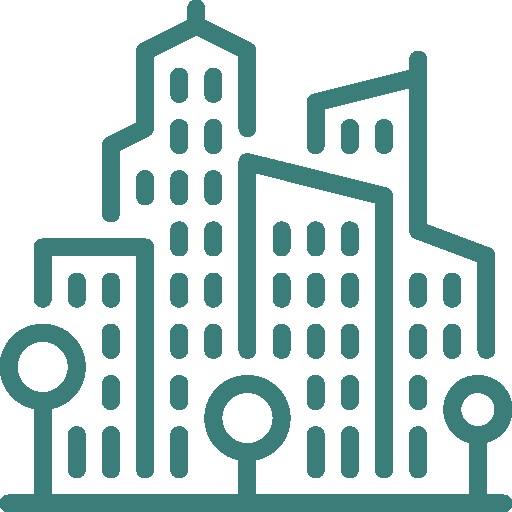
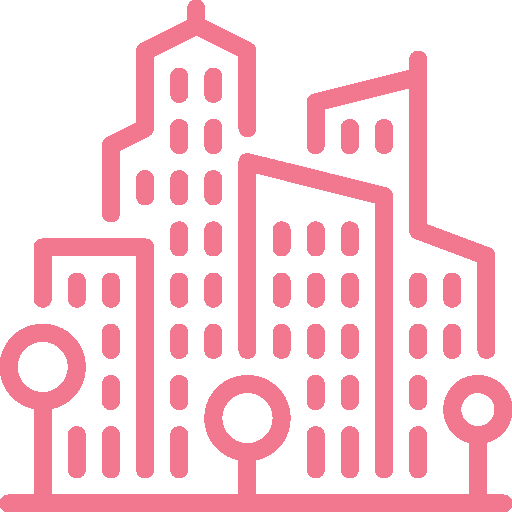
Change about color

diff --git a/css/bio.css b/css/bio.css
@@ -1,3 +1,6 @@
+.header-color {
+	background-color: #f2788f;
+}
 article {
 	z-index: 1;
 	background-color: white;
@@ -10,14 +13,17 @@ article {
 }
 .title {
 	font-size: 100px;
-	color: black;
+	color: #f2788f;
 }
 .vertical-rule {
 	width: 75vw;
 	max-width: 400px;
 	height: 5px;
-	background-color: #3B7D79;
+	background-color: #f2788f;
 	margin: 75px auto;
+}
+.sub-heading {
+	color: #f2788f;
 }
 .bio {
 	margin: 0 auto;
@@ -33,13 +39,12 @@ article {
 .svgs img {
 	width: 100px;
 	margin: 15px 50px;
-	color: #3B7D79;
 }
 footer {
 	color: white;
 	width: 100%;
 	height: 175px;
-	background-color: #73cac4;
+	background-color: #f2788f;
 	position: fixed;
 	bottom: 0;
 	z-index: -2;
@@ -52,6 +57,9 @@ footer {
 	width: 150px;
 	float: left;
 	margin: 12.5px;
+}
+.contact a {
+	color: #f2788f;
 }
 @media screen and (max-width: 625px) {
 	.svgs img {

diff --git a/css/main.css b/css/main.css
@@ -143,7 +143,6 @@ article {
 .sub-heading {
 	font-size: 50px;
 	margin: 15px 0;
-	padding-left: 50px;
 }
 article p {
 	padding-top: 25px;
